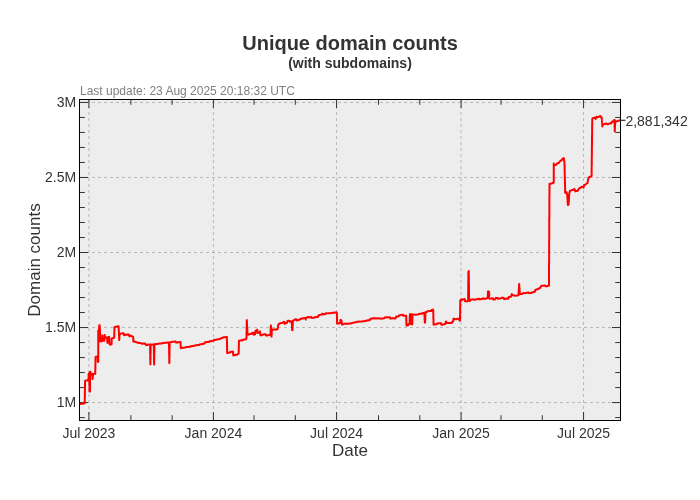
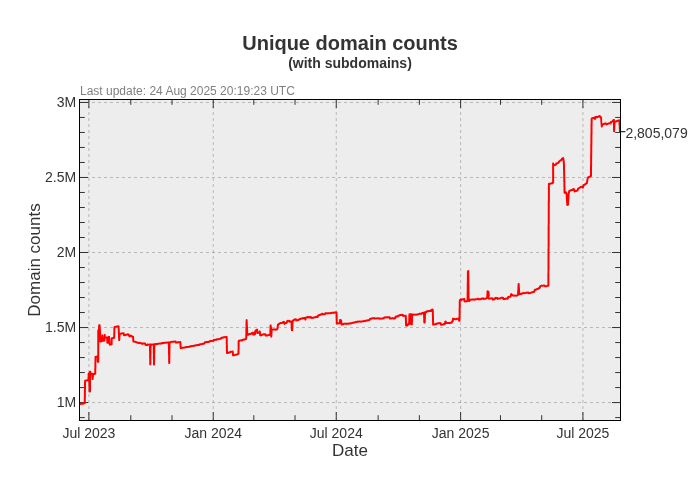
Update pages

diff --git a/README.md b/README.md
@@ -3,22 +3,22 @@ A blocklist file for blocking ads, trackers and malware domains.
 
[1 lines of base64/hex data omitted]
 
-- Unique domains: 2,881,342
-- Without subdomains: 2,187,177
-- Last update: 23 Aug 2025 20:18:32 UTC
-- Version: 2025.08.23.01
+- Unique domains: 2,805,079
+- Without subdomains: 2,120,167
+- Last update: 24 Aug 2025 20:19:23 UTC
+- Version: 2025.08.24.01
 
 
 ### Downloads:
 
 | Format             | Domain count      | Download Link |
 |:------------------ | -----------------:|:-------------:|
-| *Adblock Plus*     | 2,187,177 | [Download](https://dl.cenk.app/bad-hosts/bad-hosts-abp) |
-| *Wildcard domains* | 2,187,177 | [Download](https://dl.cenk.app/bad-hosts/bad-hosts-wildcard) |
-| *dnsmasq*          | 2,187,177 | [Download](https://dl.cenk.app/bad-hosts/bad-hosts-dnsmasq) |
-| *hosts*            | 2,881,342 | [Download](https://dl.cenk.app/bad-hosts/hosts) |
-| *hosts (ipv6)*     | 2,881,342 | [Download](https://dl.cenk.app/bad-hosts/hosts-ipv6) |
-| *Plain domains*    | 2,881,342 | [Download](https://dl.cenk.app/bad-hosts/bad-hosts-domains) |
+| *Adblock Plus*     | 2,120,167 | [Download](https://dl.cenk.app/bad-hosts/bad-hosts-abp) |
+| *Wildcard domains* | 2,120,167 | [Download](https://dl.cenk.app/bad-hosts/bad-hosts-wildcard) |
+| *dnsmasq*          | 2,120,167 | [Download](https://dl.cenk.app/bad-hosts/bad-hosts-dnsmasq) |
+| *hosts*            | 2,805,079 | [Download](https://dl.cenk.app/bad-hosts/hosts) |
+| *hosts (ipv6)*     | 2,805,079 | [Download](https://dl.cenk.app/bad-hosts/hosts-ipv6) |
+| *Plain domains*    | 2,805,079 | [Download](https://dl.cenk.app/bad-hosts/bad-hosts-domains) |
 
 ### Domain count history
 #### With subdomains
